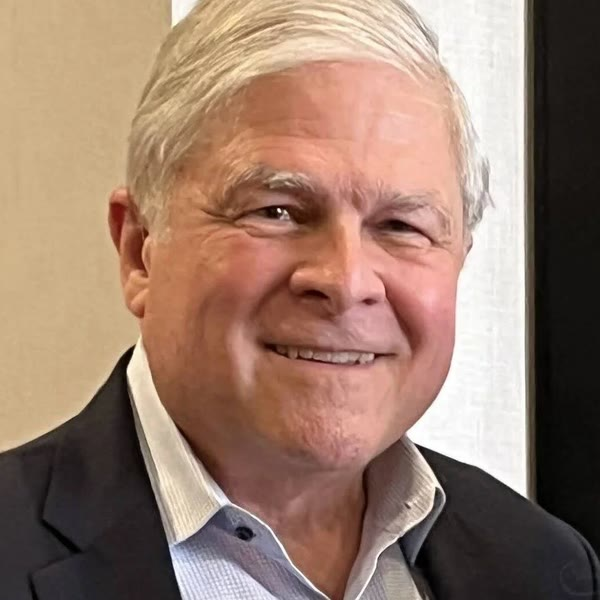
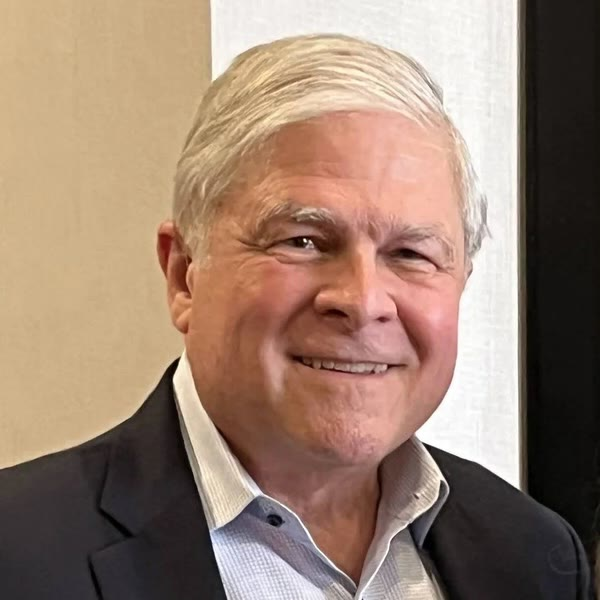
Leadership: looser headshots, staff then board A-Z, Read more, slips fixed
Lawrence, 9 Nov: crops showed too little (tops of heads cut). Rule now 4.2x
eyes-to-chin with eyes 38% down, so the whole head and some shoulders show;
Leann's stops above her shirt graphic, Nick's and Vova's are limited by their
originals. Two headed groups, Staff and Board of Directors (A-Z by last name).
Bios fold to six lines with Read more (LeaderBio.jsx). Darlene's role 'Events
Planner and Board Member'. Slips: wheelchairs, Angelman, 20s/30s, Luke 14
Ministries, STM spelled out, commas. Bio trims, dated figures, and adding
Ellen/Katie are Staff Questions.

diff --git a/app/leadership/page.jsx b/app/leadership/page.jsx
@@ -1,7 +1,14 @@
 import { asset } from '@/lib/site';
+import LeaderBio from './LeaderBio';
+
 export const metadata = { title: 'Leadership' };
 
-const leaders = [
+// Staff first, then the board A to Z by last name (Lawrence, 9 Nov 2026).
+// Darlene is staff and on the board; she is listed once, with the staff.
+// The bios are the leaders' own words: slips fixed 9 Nov 2026 (spelling,
+// "Luke 14 Ministries", STM spelled out), nothing else changed. Trimming them
+// and the figures that go out of date are open in Staff Questions §1.
+const staff = [
   {
     name: 'Larry LaPlue',
     role: 'Executive Director',
@@ -12,67 +19,21 @@ const leaders = [
   },
   {
     name: 'Darlene LaPlue',
-    role: 'Events Planner/Board Member',
+    role: 'Events Planner and Board Member',
     image: asset('/images/leaders/darlene-laplue.jpg'),
     bio: [
-      'Darlene LaPlue is a farm girl from Kentucky who loves Jesus and loves being busy about the work of His Kingdom. She fell in love with disability ministry nearly 25 years ago as she met so many amazing and beautiful people and began seeing the heart of God as she had never seen it before. Her part in this ministry now includes: planning the annual Luke 14 Dinner Party, helping lead teams going to Kenya to distribute wheelchair, directing Camp Celebrate, and teaching an Adult Special Friends Sunday School Class at her church in Morristown. Her spiritual gift is throwing a party. She is working to take back the “party” for The Kingdom!',
+      'Darlene LaPlue is a farm girl from Kentucky who loves Jesus and loves being busy about the work of His Kingdom. She fell in love with disability ministry nearly 25 years ago as she met so many amazing and beautiful people and began seeing the heart of God as she had never seen it before. Her part in this ministry now includes planning the annual Luke 14 Dinner Party, helping lead teams going to Kenya to distribute wheelchairs, directing Camp Celebrate, and teaching an Adult Special Friends Sunday School Class at her church in Morristown. Her spiritual gift is throwing a party. She is working to take back the “party” for The Kingdom!',
     ],
   },
-  {
-    name: 'Lee Anne LaPlue',
-    role: 'Board Director',
-    image: asset('/images/leaders/lee-anne-laplue.jpg'),
-    bio: [
-      'Though raised in East Tennessee, Lee Anne LaPlue has participated in disability ministry around the world. Lee Anne grew up volunteering at Joni and Friends family retreats and went on a Wheels for the World wheelchair distribution to Ghana while in college. These experiences lit a fire in her which later propelled her to move to Nigeria where, while teaching, she joined hands with a local orphanage for children with special needs. To better serve friends with disabilities, Lee Anne later sought a doctorate in Occupational Therapy, which she now uses to serve children in Phoenix, Arizona through an outpatient pediatric clinic that specializes in sensory processing disorder. Lee Anne has been heavily involved in Luke 14 Ministries since its inception.',
-    ],
-  },
-  {
-    name: 'Nick Decosimo',
-    role: 'Board Member',
-    image: asset('/images/leaders/nick-decosimo.jpg'),
-    bio: [
-      'Nick Decosimo is a senior advisor at Decosimo Corporate Finance. Before that, he was managing shareholder for the Chattanooga office and member of the Executive Committee of Elliott Davis, a large regional CPA firm. Prior to its merger with Elliott Davis, Nick served as the firm-wide managing partner of Decosimo, a regional CPA firm headquartered in Chattanooga. His community service includes chairing the Chattanooga Chamber, the Chattanooga United Way, the Generosity Trust, and ArtsBuild among others. He was an Echols Scholar at the University of Virginia and received his MBA from UNC-Chapel Hill.',
-    ],
-  },
-  {
-    name: 'Debbie Salansky',
-    role: 'Board Member',
-    image: asset('/images/leaders/debbie-salansky.jpg'),
-    bio: [
-      'Debbie Salansky is a physical therapist and former Director of Rehabilitation who resides in Morristown, Tennessee. She has worked extensively both in-country and abroad, in both professional capacities and as a volunteer, with a wide range of people across the lifespan. In her international travels, she directly served individuals/families with assessments and fitting of adaptive equipment. She has volunteered by working with trip preparation, equipment modification and training therapists as well as STM volunteers involved in Luke 14 Ministry. She views ministry involvement as a priority and considers working with others a blessing and an act of worship.',
-    ],
-  },
-  {
-    name: 'Gary Salansky',
-    role: 'Board Member',
-    image: asset('/images/leaders/gary-salansky.jpg'),
-    bio: [
-      'Better known as Coach Sal - a long time educator and coach with experience in both the public and private Christian school settings, Gary resides in Morristown, Tennessee. His personal connection to disability ministry began in college while working with Special Olympics and has continued in many other arenas. He has worked with special needs populations in public education and has volunteered in many varied Luke 14 ministry outreaches, both here at home and in Kenya. He has fostered two special needs children and works with Joy Unspeakable which is an adult special needs church small group. He feels a deep responsibility to honor God and carry out his father’s legacy in memory of a loved one affected by disability.',
-    ],
-  },
-  {
-    name: 'Laura Payne',
-    role: 'Board Member',
-    image: asset('/images/leaders/laura-payne.jpg'),
-    bio: [
-      'Laura Payne has experienced disability since birth with cerebral palsy for 63 years.',
-      'Laura’s family is precious to her and has shaped her perspective about life, the Lord, and people from her earliest years. Laura first was introduced to Joni Eareckson Tada when she was a teenager recovering from major surgery in a Memphis hospital. Laura also experienced life with other girls with disabilities at that hospital and understood connecting in new ways with people of all backgrounds. From then, Laura wanted to make a difference with and for people affected by disabilities. Laura was given educational opportunities in rehabilitation and special education in her late 20’s and early 30’s. Laura has served in disability advocacy and ministry for 36 years. Laura is grateful for the Lord, family, and friends who have shared life, including Darlene LaPlue and her family in 45 years of friendship!',
-    ],
-  },
-  {
-    name: 'Vova Gorbenko',
-    role: 'Board Member',
-    image: asset('/images/leaders/vova-gorbenko.jpg'),
-    bio: [
-      'Dr. Vova Gorbenko is the Associate Director of Campus Ministries and an Assistant Professor of New Testament. He was born and raised in Ukraine and has over twenty years of experience in teaching, mentoring, and providing leadership to faculty and staff in a seminary setting. He served as The Academic Dean of Zaporizhzhia Bible Seminary for 15 years and taught Hermeneutics and New Testament for 21 years. He also served as senior pastor of a rapidly growing urban church for 14 years. Dr. Gorbenko was a frequent speaker at national pastors’ conferences in Ukraine in the last few years before the war broke out in that country. Now, at Carson-Newman, Dr. Gorbenko primarily teaches Introduction to New Testament courses. He has developed a program for integrating Christian worldview, identity and purpose into the lives and vocations of students in the College and Professional Studies programs. Dr. Gorbenko is happily married to Marina. They have two children: Katya (17) and Andrii (19).',
-    ],
-  },
+];
+
+const board = [
   {
     name: 'Patti Baker',
     role: 'Board Member',
     image: asset('/images/leaders/patti-baker.jpg'),
     bio: [
-      'Patti Baker has been involved in special needs ministry with her church for 14 years but has on-the-job training with her daughter Cecilia, a 36-year-old who was born with Angleman Syndrome. She is a special needs mom with a message to share with the world that all special needs folks are worthy of love, grace, mercy, acceptance and that they are a vital part of the body of Christ. She is the chairperson of the Special Needs ministry team at Calvary Baptist, Erwin TN and has led the women’s ministry team at Camp Celebrate for several years. She has been married to Tony for 44 years and resides in Erwin TN.',
+      'Patti Baker has been involved in special needs ministry with her church for 14 years but has on-the-job training with her daughter Cecilia, a 36-year-old who was born with Angelman syndrome. She is a special needs mom with a message to share with the world that all special needs folks are worthy of love, grace, mercy and acceptance, and that they are a vital part of the body of Christ. She is the chairperson of the special needs ministry team at Calvary Baptist in Erwin, TN, and has led the women’s ministry team at Camp Celebrate for several years. She has been married to Tony for 44 years and resides in Erwin, TN.',
     ],
   },
   {
@@ -82,59 +43,109 @@ const leaders = [
     // Ellen's text (9 Nov 2026), spelling fixed only.
     bio: [
       'Leann Byrd, MD, is originally from Grainger County, TN. She received her undergraduate degree from Carson-Newman College (now University). She completed her medical degree as well as her family medicine training at ETSU College of Medicine.',
-      'She returned to Jefferson City, TN in 2002 and has practiced medicine and raised her family there ever since. Currently, she works with Summit Medical Group in Jefferson City, Morristown, and Newport. She has served as Chief of Staff, Chief of Medicine, and on various committees at Jefferson Memorial Hospital through the years. Currently, she serves on the board of directors for Jefferson Memorial Hospital. She also serves on the board of directors for Renovatus, a drug and alcohol recovery community.',
+      'She returned to Jefferson City, TN, in 2002 and has practiced medicine and raised her family there ever since. Currently, she works with Summit Medical Group in Jefferson City, Morristown, and Newport. She has served as Chief of Staff, Chief of Medicine, and on various committees at Jefferson Memorial Hospital through the years. Currently, she serves on the board of directors for Jefferson Memorial Hospital. She also serves on the board of directors for Renovatus, a drug and alcohol recovery community.',
       'She attends and is active in various ministries at First Baptist Church of Strawberry Plains.',
       'She has volunteered with Camp Celebrate for 10 years and shares their vision for a global church where all are recognized as being created for the glory of God and welcome, active members of His church.',
     ],
   },
+  {
+    name: 'Nick Decosimo',
+    role: 'Board Member',
+    image: asset('/images/leaders/nick-decosimo.jpg'),
+    bio: [
+      'Nick Decosimo is a senior advisor at Decosimo Corporate Finance. Before that, he was managing shareholder for the Chattanooga office and a member of the Executive Committee of Elliott Davis, a large regional CPA firm. Prior to its merger with Elliott Davis, Nick served as the firm-wide managing partner of Decosimo, a regional CPA firm headquartered in Chattanooga. His community service includes chairing the Chattanooga Chamber, the Chattanooga United Way, the Generosity Trust, and ArtsBuild, among others. He was an Echols Scholar at the University of Virginia and received his MBA from UNC-Chapel Hill.',
+    ],
+  },
+  {
+    name: 'Vova Gorbenko',
+    role: 'Board Member',
+    image: asset('/images/leaders/vova-gorbenko.jpg'),
+    bio: [
+      'Dr. Vova Gorbenko is the Associate Director of Campus Ministries and an Assistant Professor of New Testament. He was born and raised in Ukraine and has over twenty years of experience in teaching, mentoring, and providing leadership to faculty and staff in a seminary setting. He served as Academic Dean of Zaporizhzhia Bible Seminary for 15 years and taught Hermeneutics and New Testament for 21 years. He also served as senior pastor of a rapidly growing urban church for 14 years. Dr. Gorbenko was a frequent speaker at national pastors’ conferences in Ukraine in the last few years before the war broke out in that country. Now, at Carson-Newman, Dr. Gorbenko primarily teaches Introduction to New Testament courses. He has developed a program for integrating Christian worldview, identity and purpose into the lives and vocations of students in the College and Professional Studies programs. Dr. Gorbenko is happily married to Marina. They have two children: Katya (17) and Andrii (19).',
+    ],
+  },
+  {
+    name: 'Lee Anne LaPlue',
+    role: 'Board Director',
+    image: asset('/images/leaders/lee-anne-laplue.jpg'),
+    bio: [
+      'Though raised in East Tennessee, Lee Anne LaPlue has participated in disability ministry around the world. Lee Anne grew up volunteering at Joni and Friends family retreats and went on a Wheels for the World wheelchair distribution to Ghana while in college. These experiences lit a fire in her which later propelled her to move to Nigeria where, while teaching, she joined hands with a local orphanage for children with special needs. To better serve friends with disabilities, Lee Anne later sought a doctorate in Occupational Therapy, which she now uses to serve children in Phoenix, Arizona, through an outpatient pediatric clinic that specializes in sensory processing disorder. Lee Anne has been heavily involved in Luke 14 Ministries since its inception.',
+    ],
+  },
+  {
+    name: 'Laura Payne',
+    role: 'Board Member',
+    image: asset('/images/leaders/laura-payne.jpg'),
+    bio: [
+      'Laura Payne has experienced disability since birth with cerebral palsy for 63 years.',
+      'Laura’s family is precious to her and has shaped her perspective about life, the Lord, and people from her earliest years. Laura was first introduced to Joni Eareckson Tada when she was a teenager recovering from major surgery in a Memphis hospital. Laura also experienced life with other girls with disabilities at that hospital and understood connecting in new ways with people of all backgrounds. From then, Laura wanted to make a difference with and for people affected by disabilities. Laura was given educational opportunities in rehabilitation and special education in her late 20s and early 30s. Laura has served in disability advocacy and ministry for 36 years. Laura is grateful for the Lord, family, and friends who have shared life, including Darlene LaPlue and her family in 45 years of friendship!',
+    ],
+  },
+  {
+    name: 'Debbie Salansky',
+    role: 'Board Member',
+    image: asset('/images/leaders/debbie-salansky.jpg'),
+    bio: [
+      'Debbie Salansky is a physical therapist and former Director of Rehabilitation who resides in Morristown, Tennessee. She has worked extensively both in-country and abroad, in both professional capacities and as a volunteer, with a wide range of people across the lifespan. In her international travels, she directly served individuals and families with assessments and fitting of adaptive equipment. She has volunteered by working with trip preparation, equipment modification and training therapists, as well as short-term mission (STM) volunteers involved in Luke 14 Ministries. She views ministry involvement as a priority and considers working with others a blessing and an act of worship.',
+    ],
+  },
+  {
+    name: 'Gary Salansky',
+    role: 'Board Member',
+    image: asset('/images/leaders/gary-salansky.jpg'),
+    bio: [
+      'Better known as Coach Sal, Gary Salansky is a longtime educator and coach with experience in both public and private Christian school settings. He resides in Morristown, Tennessee. His personal connection to disability ministry began in college while working with Special Olympics and has continued in many other arenas. He has worked with special needs populations in public education and has volunteered in many Luke 14 Ministries outreaches, both here at home and in Kenya. He has fostered two special needs children and works with Joy Unspeakable, an adult special needs church small group. He feels a deep responsibility to honor God and carry out his father’s legacy in memory of a loved one affected by disability.',
+    ],
+  },
 ];
+
+// Every photo is a round headshot cropped the same way (Lawrence, 9 Nov 2026):
+// a square 4.2x the eyes-to-chin distance with the eyes 38% down, so the whole
+// head shows with some neck and shoulders; 600x600 in public/images/leaders/.
+// A new leader's photo is cropped by the same rule before it goes in.
+function LeaderCard({ leader }) {
+  return (
+    <div className="bg-white rounded-lg shadow-sm overflow-hidden flex flex-col">
+      <div className="pt-8 flex justify-center">
+        {/* eslint-disable-next-line @next/next/no-img-element */}
+        <img
+          src={leader.image}
+          alt={leader.name}
+          width={600}
+          height={600}
+          className="w-44 h-44 rounded-full object-cover ring-1 ring-neutral-200"
+        />
+      </div>
+      <div className="p-6 flex-1">
+        <h3 className="text-xl font-bold text-center">{leader.name}</h3>
+        <p className="text-sm font-semibold uppercase tracking-wide text-brand text-center mt-1 mb-4">
+          {leader.role}
+        </p>
+        <LeaderBio paragraphs={leader.bio} name={leader.name} />
+      </div>
+    </div>
+  );
+}
 
 export default function LeadershipPage() {
   return (
-    <>
-      <section className="container-site py-14">
-        <h1 className="text-4xl font-bold text-center mb-12">
-          Meet Our Leadership
-        </h1>
+    <section className="container-site py-14">
+      <h1 className="text-4xl font-bold text-center mb-12">Meet Our Leadership</h1>
 
-        <div className="grid gap-10 sm:grid-cols-2 lg:grid-cols-3">
-          {leaders.map((leader) => (
-            <div
-              key={leader.name}
-              className="bg-white rounded-lg shadow-sm overflow-hidden flex flex-col"
-            >
-              {/* Every photo is a round headshot cropped the same way (Lawrence,
-                  9 Nov 2026): a square 3x the eyes-to-chin distance, eyes 40% down,
-                  600x600, in public/images/leaders/. A new leader's photo is cropped
-                  by the same rule before it goes in, never shown as it comes. */}
-              <div className="pt-8 flex justify-center">
-                {/* eslint-disable-next-line @next/next/no-img-element */}
-                <img
-                  src={leader.image}
-                  alt={leader.name}
-                  width={600}
-                  height={600}
-                  className="w-44 h-44 rounded-full object-cover ring-1 ring-neutral-200"
-                />
-              </div>
-              <div className="p-6 flex-1">
-                <h2 className="text-xl font-bold text-center">{leader.name}</h2>
-                <p className="text-sm font-semibold uppercase tracking-wide text-brand text-center mt-1 mb-4">
-                  {leader.role}
-                </p>
-                {leader.bio.map((paragraph, i) => (
-                  <p
-                    key={i}
-                    className="text-neutral-700 leading-relaxed mb-3 last:mb-0"
-                  >
-                    {paragraph}
-                  </p>
-                ))}
-              </div>
-            </div>
-          ))}
-        </div>
-      </section>
-    </>
+      <h2 className="text-2xl font-bold text-center mb-6">Staff</h2>
+      {/* Two staff cards: two columns, centred, the same card width as the board's. */}
+      <div className="grid gap-10 sm:grid-cols-2 lg:max-w-[calc((100%-5rem)*2/3+2.5rem)] lg:mx-auto mb-14">
+        {staff.map((leader) => (
+          <LeaderCard key={leader.name} leader={leader} />
+        ))}
+      </div>
+
+      <h2 className="text-2xl font-bold text-center mb-6">Board of Directors</h2>
+      <div className="grid gap-10 sm:grid-cols-2 lg:grid-cols-3">
+        {board.map((leader) => (
+          <LeaderCard key={leader.name} leader={leader} />
+        ))}
+      </div>
+    </section>
   );
 }

diff --git a/app/leadership/LeaderBio.jsx b/app/leadership/LeaderBio.jsx
@@ -1,0 +1,58 @@
+'use client';
+
+// A leader's bio, folded to its first few lines with "Read more" (Lawrence,
+// 9 Nov 2026: bios run from 3 lines to 12, which left most cards in a row
+// half empty). The button appears only when the text is actually cut off, so
+// a short bio shows whole with nothing under it. Folded by height (not
+// line-clamp, which does not fold across several paragraphs), so the full text
+// is in the page for search engines and screen readers.
+
+import { useEffect, useRef, useState } from 'react';
+
+export default function LeaderBio({ paragraphs, name }) {
+  const [open, setOpen] = useState(false);
+  const [cut, setCut] = useState(false);
+  const box = useRef(null);
+
+  useEffect(() => {
+    const el = box.current;
+    if (!el) return undefined;
+    const measure = () => {
+      if (!open) setCut(el.scrollHeight > el.clientHeight + 1);
+    };
+    measure();
+    window.addEventListener('resize', measure);
+    return () => window.removeEventListener('resize', measure);
+  }, [open]);
+
+  return (
+    <div>
+      {/* Six lines at leading-relaxed (26px each), faded at the foot when cut. */}
+      <div
+        ref={box}
+        className={
+          open
+            ? ''
+            : `max-h-[9.75rem] overflow-hidden ${cut ? '[mask-image:linear-gradient(to_bottom,black_65%,transparent)]' : ''}`
+        }
+      >
+        {paragraphs.map((paragraph, i) => (
+          <p key={i} className="text-neutral-700 leading-relaxed mb-3 last:mb-0">
+            {paragraph}
+          </p>
+        ))}
+      </div>
+      {(cut || open) && (
+        <button
+          type="button"
+          onClick={() => setOpen(!open)}
+          aria-expanded={open}
+          className="mt-2 text-sm font-semibold text-brand underline"
+        >
+          {open ? 'Show less' : 'Read more'}
+          <span className="sr-only"> about {name}</span>
+        </button>
+      )}
+    </div>
+  );
+}
